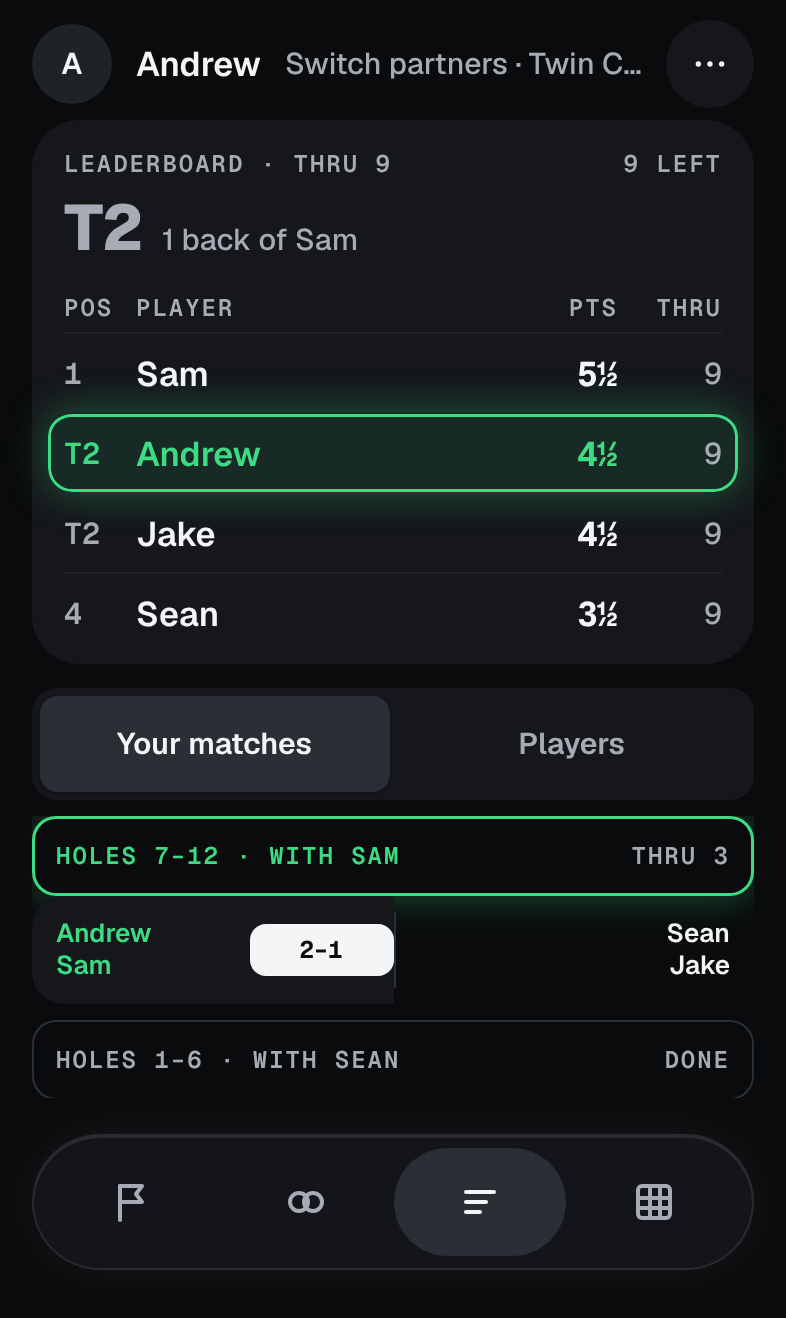
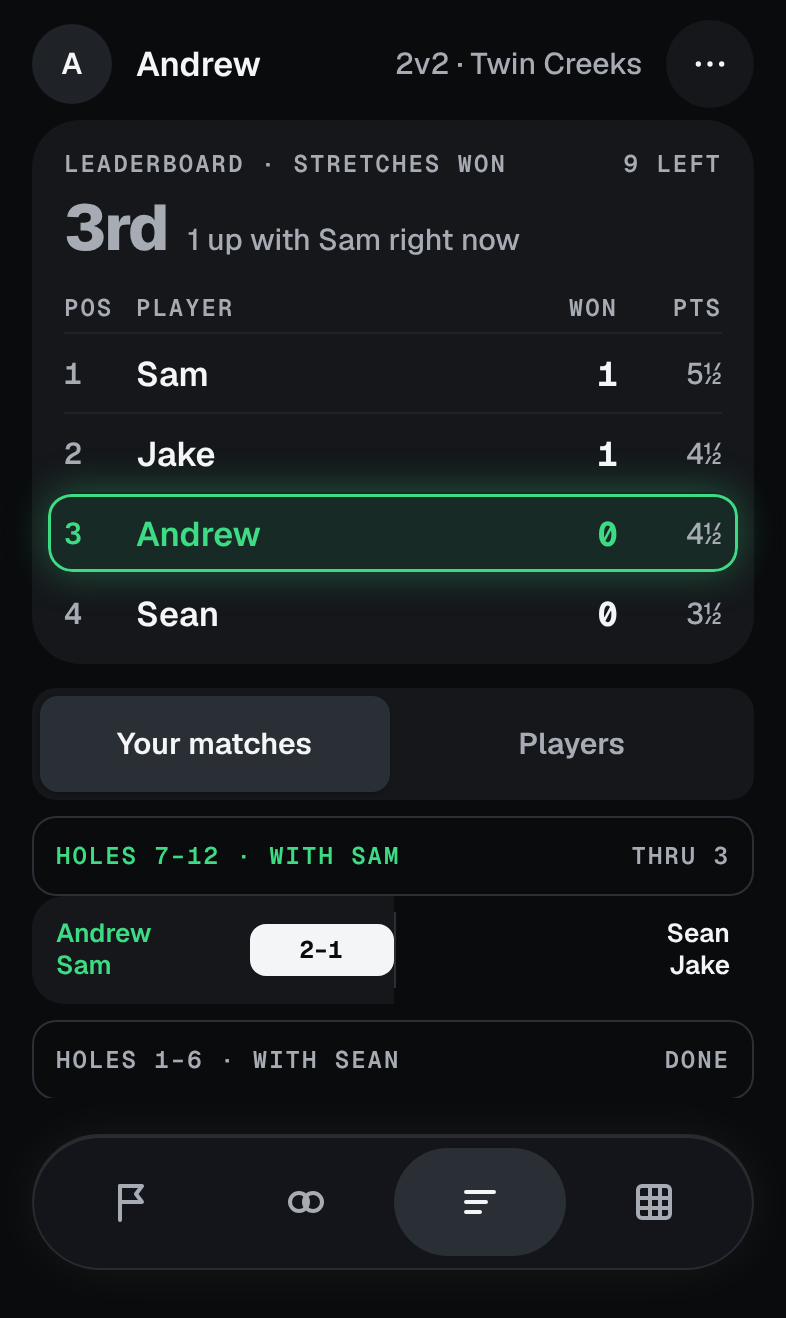
Design briefs page: record Nov 19 decisions (stretches won, no cart colors, warning card, switching as a 2v2 setting)
Claude-Session: https://claude.ai/code/session_01E1LafEeuNW7uYNVp4cMhcr

diff --git a/docs/design/briefs/index.html b/docs/design/briefs/index.html
@@ -378,9 +378,9 @@ table.map tr.four th, table.map tr.four td { background: var(--tint-you); }
       <table>
         <thead><tr><th>You’re playing for</th><th>How it’s set up</th><th>The Board is about</th><th>Matches shows</th></tr></thead>
         <tbody>
-          <tr><th>Yourself</th><td>Partners switch (a foursome, or 8)</td><td>You: your place and points on a players leaderboard, then your matches</td><td>The stretch you’re in now, one tab per partner</td></tr>
-          <tr><th>Your cart</th><td>Partner fixed, opponents switch (8 players, or three carts for 6)</td><td>Your team: carts ranked, then the matches that made the score</td><td>Your match, one tab per opponent</td></tr>
-          <tr><th>Your cart, one match</th><td>Partner and opponents the same all day (a foursome, or each foursome of 8)</td><td>That match: two totals and one bar</td><td>The hole calendar</td></tr>
+          <tr><th>Yourself</th><td>2v2, partners switch (a foursome, or 8)</td><td>You: your place by stretches won on a players leaderboard, then your matches</td><td>The stretch you’re in now, one tab per partner</td></tr>
+          <tr><th>Your cart</th><td>2v2, partner fixed, opponents switch (8 players, or three carts for 6)</td><td>Your team: carts ranked, then the matches that made the score</td><td>Your match, one tab per opponent</td></tr>
+          <tr><th>Your cart, one match</th><td>2v2, partner and opponents the same all day (a foursome, or each foursome of 8)</td><td>That match: two totals and one bar</td><td>The hole calendar</td></tr>
           <tr><th>Yourself, no partner</th><td>Everyone alone (2–6)</td><td>The leaderboard, nothing above it but your place</td><td>The race</td></tr>
           <tr><th>Nobody: just your score</th><td>Stroke play (any number)</td><td>The leaderboard, to par</td><td>Your group’s last three holes</td></tr>
         </tbody>
@@ -391,6 +391,7 @@ table.map tr.four th, table.map tr.four td { background: var(--tint-you); }
     <div class="shots">
       <button class="ref" data-src="agreed/r-1.png"><img src="agreed/r-1.png" alt="After hole 1"><span><b>After hole 1</b>Just the leaderboard, plus “How it works” for the first few holes.</span></button>
       <button class="ref" data-src="agreed/r-9.png"><img src="agreed/r-9.png" alt="At the turn"><span><b>At the turn</b>Place, Pts and Back. Nothing else until it matters.</span></button>
+      <button class="ref" data-src="agreed/r-warn.png"><img src="agreed/r-warn.png" alt="One hole from out of reach"><span><b>One hole from out</b>The warning: “Lose it to Chris and you’re out of reach.”</span></button>
       <button class="ref" data-src="agreed/r-15.png"><img src="agreed/r-15.png" alt="3 holes left"><span><b>3 holes left</b>The amber card says what this hole decides. Out of reach = under the line.</span></button>
       <button class="ref" data-src="agreed/r-won.png"><img src="agreed/r-won.png" alt="Clinched"><span><b>Clinched</b>The winner is alone above the line. You’re told what you’re still playing for.</span></button>
       <button class="ref" data-src="agreed/b-player-open.png"><img src="agreed/b-player-open.png" alt="Tap a player"><span><b>Tap a player</b>The round card the app already has, with one line for the game.</span></button>
@@ -409,28 +410,31 @@ table.map tr.four th, table.map tr.four td { background: var(--tint-you); }
           <li><b>Never two scoreboards:</b> a mini leaderboard only where the matches under it make up the standings.</li>
           <li><b>The glow</b> goes on the one live thing on each screen.</li>
           <li><b>Not built yet = “coming soon”</b> (Scramble, Carries over).</li>
+          <li><b>Partners switch:</b> the day goes to whoever wins the most stretches. Points break ties.</li>
+          <li><b>Cart colors come off everything</b> for now: green for you, white or grey for everyone else. They can come back later.</li>
+          <li><b>One decimal</b> for point totals (4.3).</li>
+          <li><b>A warning before you’re out of reach:</b> the amber card, one hole earlier.</li>
+          <li><b>Names:</b> Setup still says “Pick a game” and the game names stand (2v2, Everyone alone, Stroke play, Team Ryder Cup). Keeping or switching partners and opponents are <b>settings inside 2v2</b>.</li>
+          <li><b>8 players switching partners:</b> support any kind of switching.</li>
           <li><b>How we work:</b> design on the canvas, you approve, then one brief for the engineer. The 031 and 032 folders in the repo are drafts, not to be built from.</li>
         </ul>
       </div>
       <div class="panel ask">
         <span class="kicker">Still open before the hand-off</span>
         <ul>
-          <li><b>Switch partners scoring.</b> I drew points (every hole you win or halve counts, added up over all your partners). On Nov 18 you said the day goes to whoever wins the most stretches. Which one?</li>
-          <li><b>Cart colors off everywhere?</b> Everything above is drawn green for you, white or grey for everyone else.</li>
-          <li><b>One decimal for point totals</b> (4.3, not 4⅓)?</li>
-          <li><b>A warning before you’re out?</b> Without the bar, nothing tells you you’re one hole from the line. Option: the amber card one hole earlier.</li>
-          <li><b>The names.</b> “Switch partners”, “Keep your partner”, “Everyone alone”, “Stroke play”: are these what Rules, the lobby and Home call the games?</li>
-          <li><b>8 players switching partners.</b> Do you switch within your foursome, or across both?</li>
+          <li><b>8 players switching partners, across both foursomes.</b> Switching inside your foursome is drawn. Switching across foursomes means tee times change mid-round or partners play in different groups; it needs a rule before it can be drawn. My suggestion: ship “within your foursome” first.</li>
+          <li><b>The fourth-pass screens below</b> still need your OK, one way of playing at a time.</li>
+          <li>Everything under <b>Not drawn yet</b>.</li>
         </ul>
       </div>
     </div>
 
     <h3>Drawn on the fourth pass, waiting on your OK</h3>
     <div class="shots">
-      <button class="ref" data-src="agreed/f-setup4.png"><img src="agreed/f-setup4.png" alt="Setup · 4 players"><span><b>Setup · 4 players</b>“How are you playing?” replaces “Pick a game”.</span></button>
-      <button class="ref" data-src="agreed/f-setup8.png"><img src="agreed/f-setup8.png" alt="Setup · 8 players"><span><b>Setup · 8 players</b>Keep your partner, then: opponents switch or stay.</span></button>
-      <button class="ref" data-src="agreed/f-sw-board.png"><img src="agreed/f-sw-board.png" alt="Switch partners · Board"><span><b>Switch partners · Board</b>About you: your place and points, then your matches.</span></button>
-      <button class="ref" data-src="agreed/f-sw-match.png"><img src="agreed/f-sw-match.png" alt="Switch partners · Matches"><span><b>Switch partners · Matches</b>The stretch you’re in, one tab per partner.</span></button>
+      <button class="ref" data-src="agreed/f-setup4.png"><img src="agreed/f-setup4.png" alt="Setup · 4 players"><span><b>Setup · 4 players</b>Pick 2v2, then set Partners: keep or switch.</span></button>
+      <button class="ref" data-src="agreed/f-setup8.png"><img src="agreed/f-setup8.png" alt="Setup · 8 players"><span><b>Setup · 8 players</b>2v2 with two settings: Partners and Opponents.</span></button>
+      <button class="ref" data-src="agreed/f-sw-board.png"><img src="agreed/f-sw-board.png" alt="Switch partners · Board"><span><b>Partners switch · Board</b>About you: stretches won, then your matches.</span></button>
+      <button class="ref" data-src="agreed/f-sw-match.png"><img src="agreed/f-sw-match.png" alt="Switch partners · Matches"><span><b>Partners switch · Matches</b>The stretch you’re in, one tab per partner.</span></button>
       <button class="ref" data-src="agreed/f-rot-board.png"><img src="agreed/f-rot-board.png" alt="Opponents switch · Board"><span><b>Opponents switch · Board</b>Carts ranked, then the live matches.</span></button>
       <button class="ref" data-src="agreed/f-rot-match.png"><img src="agreed/f-rot-match.png" alt="Opponents switch · Matches"><span><b>Opponents switch · Matches</b>One tab per six holes. The line says what wins.</span></button>
       <button class="ref" data-src="agreed/f-3c-board.png"><img src="agreed/f-3c-board.png" alt="Three carts · Board"><span><b>Three carts · Board</b>Same Board with three carts.</span></button>
@@ -459,7 +463,7 @@ table.map tr.four th, table.map tr.four td { background: var(--tint-you); }
           <li><b>028 Game slots:</b> Enter stands. The Board, Matches and final card are replaced by this section.</li>
           <li><b>029 Lobby:</b> stands, with the new game names.</li>
           <li><b>030 One setup:</b> Teams and Tee times stand. The Game step is replaced.</li>
-          <li><b>032 Games by player count:</b> the count still decides what’s offered. “Pick a game” becomes “How are you playing?”.</li>
+          <li><b>032 Games by player count:</b> stands, with one change: keeping or switching partners is a setting inside 2v2, next to opponents.</li>
         </ul>
       </div>
     </div>
@@ -1130,7 +1134,7 @@ table.map tr.four th, table.map tr.four td { background: var(--tint-you); }
 
   <!-- ================= 032 ================= -->
   <section class="part" id="b032">
-    <div class="panel ask"><span class="kicker">Changed Nov 19</span><p>The player count still decides what’s offered, but the step now asks “How are you playing?” (keep your partner or switch). See <a href="#agreed">Agreed · Nov 19</a>.</p></div>
+    <div class="panel ask"><span class="kicker">Changed Nov 19</span><p>This brief stands. One addition: keeping or switching partners is a setting inside 2v2, next to opponents. See <a href="#agreed">Agreed · Nov 19</a>.</p></div>
     <div class="part-head">
       <span class="badge"><span class="num">032</span><span class="covers">Changes 030’s Game step and the five games in Read first · send back as <code>features/032-games-by-player-count</code></span></span>
       <h2>Games by player count</h2>
